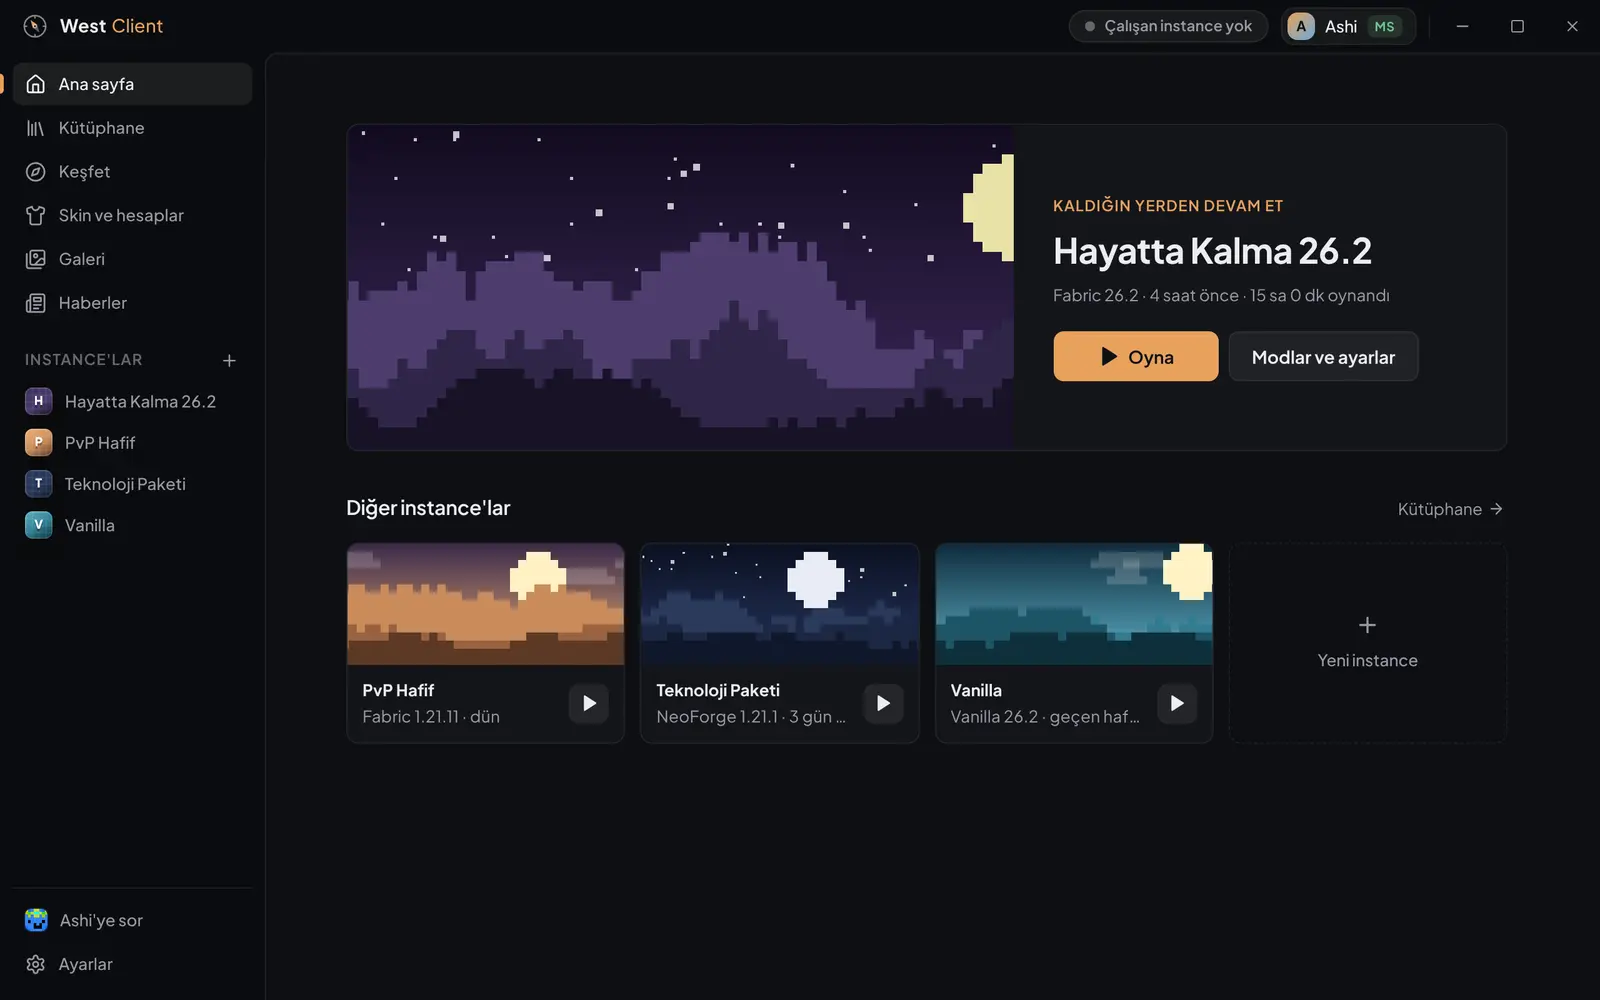
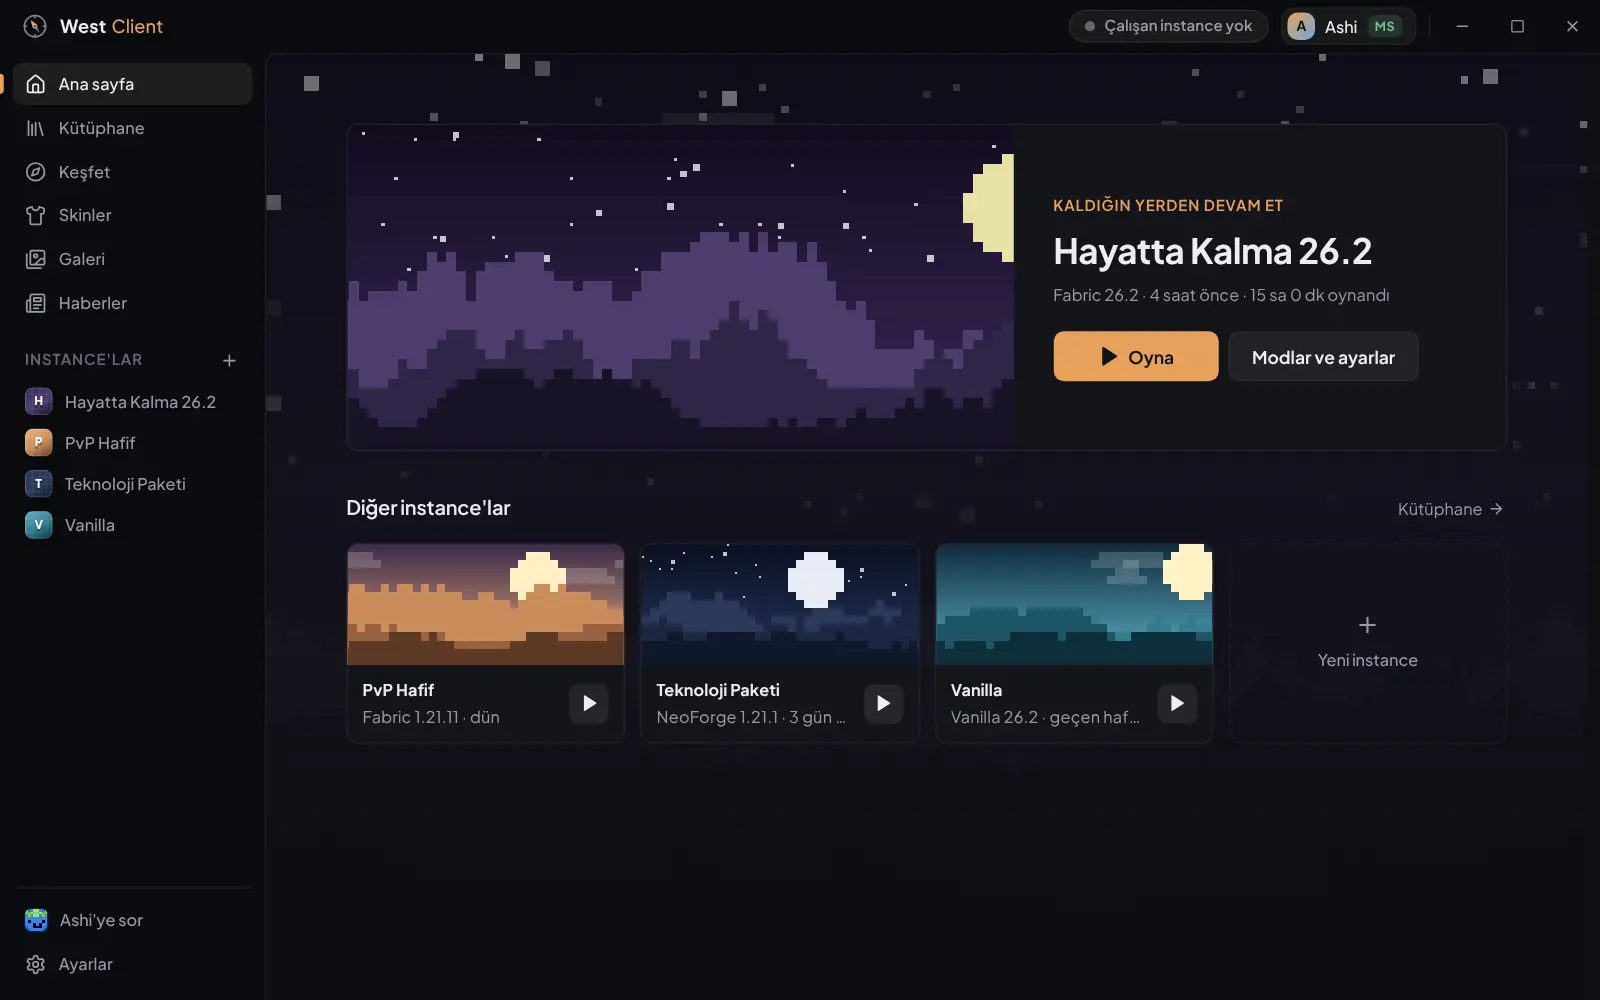
Site 0.6.17'ye göre güncellendi: Skinler ve oyun içi bölümleri, yeni ekran görüntüleri
- Yeni bölümler: Skinler (3D önizleme, hesap seçici, arşiv) ve Oyunun içi (yeni ana menü, HUD, West menüsü)
- Ana sayfa, kütüphane, keşfet, instance ve Mod Merkezi görüntüleri güncel tasarımla yeniden çekildi
- Her sürümde siteyi de güncelleme adımı proje talimatlarına eklendi

Claude-Session: https://claude.ai/code/session_017BGwMHJgBU9zxtNajRruqT

diff --git a/site/index.html b/site/index.html
@@ -37,6 +37,7 @@
     <nav class="nav-links" id="navLinks">
       <a href="#mod-merkezi">Mod Merkezi</a>
       <a href="#kesfet">Keşfet</a>
+      <a href="#skinler">Skinler</a>
       <a href="#ashi">Ashi</a>
       <a href="#ozellikler">Özellikler</a>
       <a href="#sss">SSS</a>
@@ -57,7 +58,7 @@
         <g class="needle"><path d="M12 4.6 14.6 12H9.4L12 4.6Z" fill="#e8a25c"/><path d="M12 19.4 9.4 12h5.2L12 19.4Z" fill="#eef0f2" fill-opacity=".55"/></g>
         <circle cx="12" cy="12" r="1.35" fill="#0a0b0e" stroke="#eef0f2" stroke-width="1"/>
       </svg>
-      <a class="pill" href="#indir"><span class="tag" id="verTag">YENİ</span> <span id="verText">Oyunu kapatmadan mod değiştir</span> <svg width="14" height="14"><use href="#i-arrow"/></svg></a>
+      <a class="pill" href="#indir"><span class="tag" id="verTag">YENİ</span> <span id="verText">Skinler ve yenilenen oyun içi menüler</span> <svg width="14" height="14"><use href="#i-arrow"/></svg></a>
       <h1>Minecraft'ı <span class="grad">kendi rotanda</span> oyna.</h1>
       <p class="lead">West Client; modlarını, paketlerini, dünyalarını ve arkadaşlarını tek, hızlı ve güzel bir yerde toplayan ücretsiz Minecraft launcher'ı. Çöken bir paketin suçlusunu bile senin yerine bulur.</p>
       <div class="hero-cta">
@@ -146,6 +147,42 @@
     </div>
   </section>
 
+  <!-- ───────── Skinler ───────── -->
+  <section class="wrap spot" id="skinler">
+    <div class="spot-text reveal left">
+      <span class="eyebrow">Skinler</span>
+      <h2 class="title">Skinin, hesabın, tek ekranda.</h2>
+      <p class="sub">Skinlerini büyük 3D önizlemede dene, tek tıkla istediğin hesaba uygula. Hesap değiştirmek için sayfadan çıkman bile gerekmez.</p>
+      <ul class="spot-list">
+        <li>Dosyadan yükle, bir oyuncunun skinini al ya da kendin çiz</li>
+        <li>Arşivde ara; favoriler ve kullanılanlar ayrı</li>
+        <li>Hangi skin hangi hesapta, kartın üstünde yazar</li>
+        <li>Microsoft hesabında pelerinini de buradan seç</li>
+      </ul>
+    </div>
+    <div class="spot-img reveal right">
+      <div class="frame"><img src="assets/shots/skins.webp" alt="Skinler sayfası: 3D önizleme, hesap seçici ve arşiv" loading="lazy"></div>
+    </div>
+  </section>
+
+  <!-- ───────── Oyun içi ───────── -->
+  <section class="wrap spot flip blue" id="oyun-ici">
+    <div class="spot-text reveal right">
+      <span class="eyebrow">Oyunun içi</span>
+      <h2 class="title">Launcher'dan oyuna aynı his.</h2>
+      <p class="sub">Minecraft'ın ana menüsü, West menüsü, HUD düzenleyici ve Mod Merkezi launcher'la aynı sade tasarımda. Kaldığın dünyaya tek tıkla gir.</p>
+      <ul class="spot-list">
+        <li>FPS, CPS, koordinat, tuş göstergesi gibi HUD öğelerini aç-kapat</li>
+        <li>HUD'u sürükle, boyutlandır; kenarlara ve birbirine kendiliğinden hizalanır</li>
+        <li>Shader'la çekilmiş yeni ana menü manzarası</li>
+        <li>Türkçe, English ve Deutsch</li>
+      </ul>
+    </div>
+    <div class="spot-img reveal left">
+      <div class="frame"><img src="assets/shots/ingame.webp" alt="Oyun içi West ana menüsü" loading="lazy"></div>
+    </div>
+  </section>
+
   <!-- ───────── Ashi ───────── -->
   <section class="section" id="ashi">
     <div class="wrap spot" style="padding:0">
@@ -182,7 +219,7 @@
         <div><dt>Mod setleri ve paylaşım</dt><dd>"PvP", "Hafif", "Shader" gibi düzenleri kaydet, oyundayken tek tıkla geç. Bir seti kodla arkadaşına gönder; eksik modlar onun sürümüne uygun kurulur.</dd></div>
         <div><dt>Geri dönüş noktaları</dt><dd>Her değişiklikten önce mod düzenin kaydedilir. Bir şey ters giderse tek tıkla önceki hâline dön; hiçbir dosya silinmez.</dd></div>
         <div><dt>Hızlı yeniden başlatma</dt><dd>Mod değişikliğinden sonra oyun, doğrulama ve indirmeyi tekrarlamadan saniyeler içinde yeniden açılır.</dd></div>
-        <div><dt>Skin ve galeri</dt><dd>Skin düzenleyici ve 3D önizleme; ekran görüntülerini kırp, düzenle, paylaş.</dd></div>
+        <div><dt>Galeri</dt><dd>Oyunda F2 ile çektiğin görüntüler kendiliğinden gelir; kırp, düzenle, panoya kopyala.</dd></div>
         <div><dt>Güvenli giriş</dt><dd>Microsoft şifren yalnızca Microsoft'un sayfasına girilir. İstersen launcher'ı şifreyle kilitle.</dd></div>
         <div><dt>Discord ve haberler</dt><dd>Ne oynadığın Discord profilinde görünür; Minecraft ve mod güncellemeleri tek sayfada.</dd></div>
         <div><dt>Kendini günceller</dt><dd>Yeni sürümü haber verir, indirir, SHA-256 ile doğrular ve tek tıkla kurar.</dd></div>

diff --git a/CLAUDE.md b/CLAUDE.md
@@ -1,0 +1,19 @@
+# West Client
+
+## Sürüm yayınlama (her sürümde, eksiksiz)
+
+1. Sürümü yükselt: `package.json`, `src-tauri/tauri.conf.json`, `src-tauri/Cargo.toml` ve `src-tauri/Cargo.lock` (west-launcher paketi).
+2. Companion değiştiyse iki jar'ı da derleyip `src-tauri/resources/companion/` altına kopyala (`companion/build-all.sh`).
+3. `git restore companion/versions/fabric-26.2/logs` ve `rm -f companion/versions/fabric-26.2/logs/2026-*.log.gz`.
+4. Commit mesajı kullanıcıya yönelik sürüm notu olsun (iç jargon değil), sonra `git push -u origin main`. `release.yml` kurulum dosyalarını derleyip GitHub Releases'e yükler.
+5. **Siteyi aynı sürümde güncelle (`site/`), atlanmaz:**
+   - Yeni ya da değişen özellikleri `site/index.html`'e yansıt: hero'daki `#verText` satırı, ilgili bölüm metinleri, "Ve geri kalan her şey" listesi, gerekirse menü bağlantısı.
+   - Görünüşü değişen ekranların görüntülerini yeniden çek ve `site/assets/shots/*.webp` dosyalarını değiştir (launcher sayfaları 1600×1000; oyun içi 960×540).
+   - Kaldırılan özellikleri siteden de kaldır.
+   - Siteyi tarayıcıda açıp değişen bölümleri kontrol et.
+
+## Kurallar
+
+- Arayüz metinleri Türkçe yazılır; yeni metinlerin İngilizce/Almanca çevirisi `src/i18n/*.json` (launcher), `src-tauri/i18n/*.json` (Rust) ve companion çevirilerine eklenir.
+- Tasarım dili "Rota": düz yüzeyler, 1px çizgiler; amber yalnızca asıl eylem ve seçili durum. Launcher ve sitedeki gökyüzü arka planlarına dokunulmaz.
+- Commit ve sürüm notlarında model kimliği yazılmaz.
